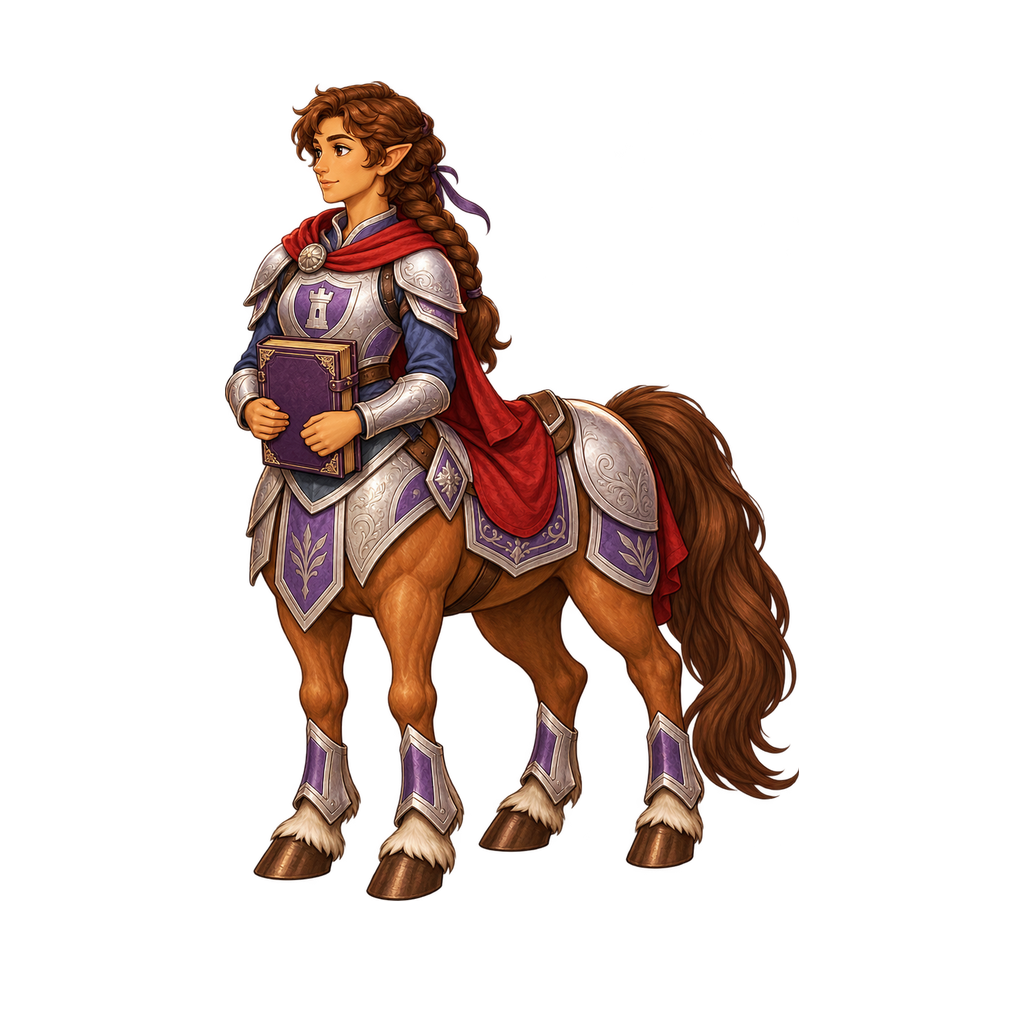
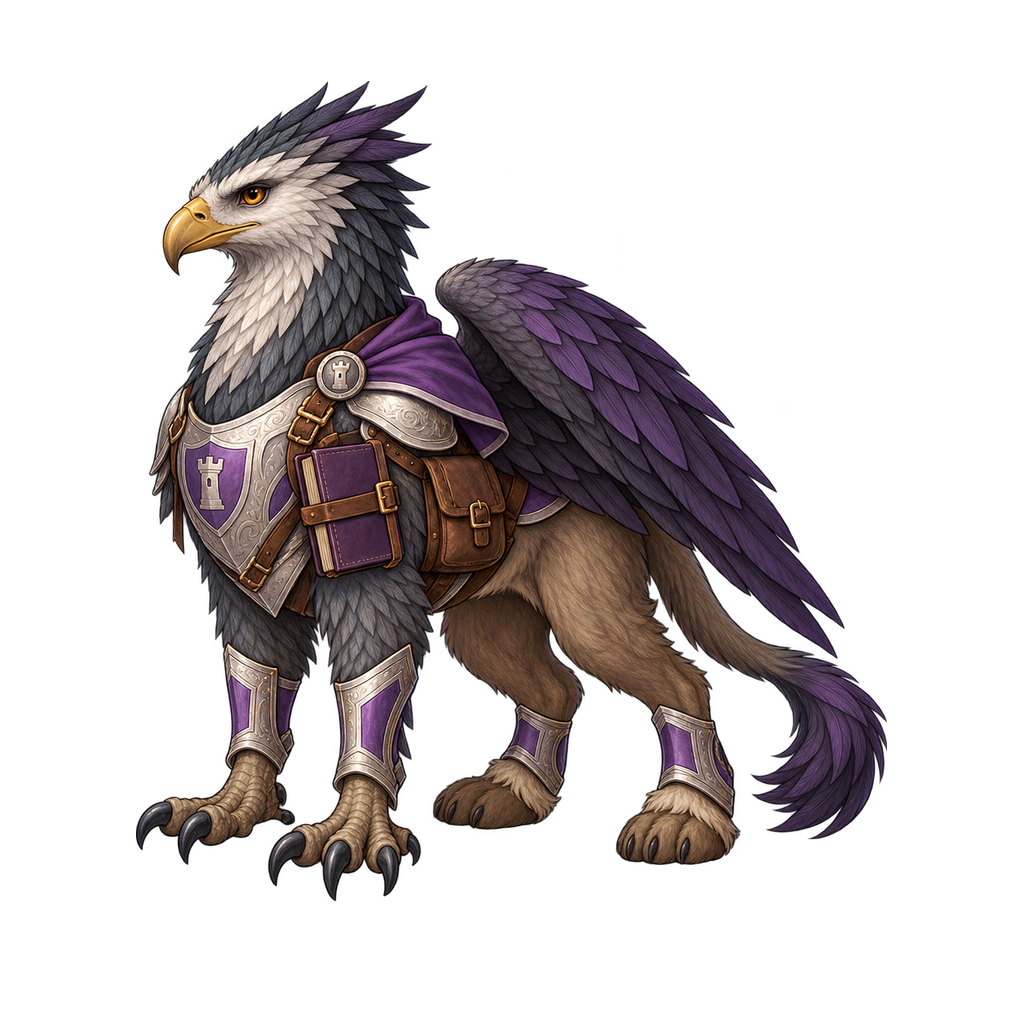
Make Holloway a griffin to match her old-flyer narration

diff --git a/docs/review/story-cast-orders/README.md b/docs/review/story-cast-orders/README.md
@@ -1,64 +1,40 @@
-# Individual order members (A3) review
-
-The finale capture shows Voss clearly on TV but off the right edge on the phone beside the much larger Seal-Keeper. This is a concrete renderer follow-up before phone approval. Brask’s corrected female face was checked and recaptured separately.
-
-![Figures](figures.png)
-
-Voss is a griffin, Brask a female faun, Holloway a centaur, and Mother Thrum a bigfoot: all are already represented in their order reference images. Voss has the direct beaked silhouette; Brask's ears and curls carry her three pencils; Holloway keeps the uniform and tidy ledger on a caravan-ready centaur; Mother Thrum's elder bigfoot body and bell charms suit a steady ford witch. Skywarden bases use actual species because the faction is absent from manifest entities, as in the approved Pellam pilot. Mother Thrum uses witch_order, which is a valid manifest entity. Group casts remain unchanged.
-
-Art verifier targeting the 4 new ids: **737 passed**, no failures. Content validator: **55 passed**. Semantic comparison: **28 cast replacements**, with only figure and required size fields changed. Before and after capture runs pass for all selected scenes.
-
-Captures use the real app at 1920×1080 TV and 390×844 phone. A temporary content
-copy exposes each original chapter as a single-chapter review campaign at index 1
-with its route prerequisite removed; scene text, cast, and biome are unchanged.
-Production campaigns and renderer code are unchanged. Phone edge/label cropping
-from the pilot renderer remains visible; captures are for visual review, not a claim
-that every composition is approved.
-
-## Captain Voss
-
-`captain_voss` · griffin · medium · 1 cast entries
-
-| TV before | TV after |
-|---|---|
-| ![Before](before-review-gemfall-08-scene_tether_call_voss-tv.png) | ![After](after-review-gemfall-08-scene_tether_call_voss-tv.png) |
-
-| PHONE before | PHONE after |
-|---|---|
-| ![Before](before-review-gemfall-08-scene_tether_call_voss-phone.png) | ![After](after-review-gemfall-08-scene_tether_call_voss-phone.png) |
-
-## Engineer Brask
-
-`brask` · faun · medium · 6 cast entries
-
-| TV before | TV after |
-|---|---|
-| ![Before](before-review-gemfall-05a-scene_engineers-tv.png) | ![After](after-review-gemfall-05a-scene_engineers-tv.png) |
-
-| PHONE before | PHONE after |
-|---|---|
-| ![Before](before-review-gemfall-05a-scene_engineers-phone.png) | ![After](after-review-gemfall-05a-scene_engineers-phone.png) |
-
-## Sergeant Holloway
-
-`holloway` · centaur · medium · 5 cast entries
-
-| TV before | TV after |
-|---|---|
-| ![Before](before-review-gemfall-04c-scene_warden_patrol-tv.png) | ![After](after-review-gemfall-04c-scene_warden_patrol-tv.png) |
-
-| PHONE before | PHONE after |
-|---|---|
-| ![Before](before-review-gemfall-04c-scene_warden_patrol-phone.png) | ![After](after-review-gemfall-04c-scene_warden_patrol-phone.png) |
-
-## Mother Thrum
-
-`mother_thrum` · witch_order · medium · 16 cast entries
-
-| TV before | TV after |
-|---|---|
-| ![Before](before-review-gemfall-03c-scene_witch_stall-tv.png) | ![After](after-review-gemfall-03c-scene_witch_stall-tv.png) |
-
-| PHONE before | PHONE after |
-|---|---|
-| ![Before](before-review-gemfall-03c-scene_witch_stall-phone.png) | ![After](after-review-gemfall-03c-scene_witch_stall-phone.png) |
+# Individual order members (A3) review
+
+The finale capture shows Voss clearly on TV but off the right edge on the phone beside the much larger Seal-Keeper. This is a concrete renderer follow-up before phone approval. Brask’s corrected female face was checked and recaptured separately.
+
+![Figures](figures.png)
+
+Voss is a griffin, Brask a female faun, Holloway a griffin, and Mother Thrum a bigfoot: all are already represented in their order reference images. Voss has the direct beaked silhouette; Brask's ears and curls carry her three pencils; Holloway keeps the uniform and tidy ledger on a griffin old flyer; Mother Thrum's elder bigfoot body and bell charms suit a steady ford witch. Skywarden bases use actual species because the faction is absent from manifest entities, as in the approved Pellam pilot. Mother Thrum uses witch_order, which is a valid manifest entity. Group casts remain unchanged.
+
+Art verifier targeting the 4 new ids: **737 passed**, no failures. Content validator: **55 passed**. Semantic comparison: **28 cast replacements**, with only figure and required size fields changed. Before and after capture runs pass for all selected scenes.
+
+Captures use the real app at 1920×1080 TV and 390×844 phone. A temporary content
+copy exposes each original chapter as a single-chapter review campaign at index 1
+with its route prerequisite removed; scene text, cast, and biome are unchanged.
+Production campaigns and renderer code are unchanged. Phone edge/label cropping
+from the pilot renderer remains visible; captures are for visual review, not a claim
+that every composition is approved.
+
+## Captain Voss
+
+`captain_voss` · griffin · medium · 1 cast entries
+
+
+
+## Engineer Brask
+
+`brask` · faun · medium · 6 cast entries
+
+
+
+## Sergeant Holloway
+
+`holloway` · griffin · medium · 5 cast entries
+
+
+
+## Mother Thrum
+
+`mother_thrum` · witch_order · medium · 16 cast entries
+
+

diff --git a/docs/campaigns/gemfall-illustrations.md b/docs/campaigns/gemfall-illustrations.md
@@ -399,13 +399,13 @@ Generated with the built-in image generation tool against the existing species/o
 references. Production PNGs are 1024×1024 RGBA, facing left, feet at y=900.
 The pilot alpha-bounds fit is used without repainting or recoloring.
 
-Voss is a griffin, Brask a female faun, Holloway a centaur, and Mother Thrum a bigfoot: all are already represented in their order reference images. Voss has the direct beaked silhouette; Brask's ears and curls carry her three pencils; Holloway keeps the uniform and tidy ledger on a caravan-ready centaur; Mother Thrum's elder bigfoot body and bell charms suit a steady ford witch. Skywarden bases use actual species because the faction is absent from manifest entities, as in the approved Pellam pilot. Mother Thrum uses witch_order, which is a valid manifest entity. Group casts remain unchanged.
+Voss is a griffin, Brask a female faun, Holloway a griffin, and Mother Thrum a bigfoot: all are already represented in their order reference images. Voss has the direct beaked silhouette; Brask's ears and curls carry her three pencils; Holloway keeps the uniform and tidy ledger on a griffin old flyer; Mother Thrum's elder bigfoot body and bell charms suit a steady ford witch. Skywarden bases use actual species because the faction is absent from manifest entities, as in the approved Pellam pilot. Mother Thrum uses witch_order, which is a valid manifest entity. Group casts remain unchanged.
 
 | id | basis | scale | references |
 |---|---|---|---|
 | captain_voss | griffin | medium | 1 |
 | brask | faun | medium | 6 |
-| holloway | centaur | medium | 5 |
+| holloway | griffin | medium | 5 |
 | mother_thrum | witch_order | medium | 16 |
 
 [Figure sheet and TV/phone captures](../review/story-cast-orders/README.md).
@@ -427,6 +427,10 @@ Final identity correction to Brask, using the generated figure:Targeted identity
 NEW single individual game cast figure Sergeant Holloway; the supplied reference is a GROUP and you must draw ONLY the person specified, not the group. Sergeant Holloway is ONE adult female CENTAUR Skywarden supply sergeant, chestnut horse body, braided brown hair, neat silver and violet uniform, calm meticulous expression. Holds ONE closed tidy purple leather LEDGER in two humanoid hands at waist, no text. Exactly FOUR equine legs/grounded hooves and exactly TWO humanoid arms, one horse tail. Light silver leg armor, no shield or weapon. Full figure facing LEFT. Match supplied warm hand-painted fantasy storybook style, readable at 120px. Complete figure three-quarter LEFT, nose/beak and gaze point image LEFT. Relaxed neutral pose, family friendly, controlled shading, upper-left light, tapered warm brown line. 1024x1024 RGBA actual transparent background, NO floor, ground shadow, text, border, or UI. Figure top around y80, feet around y900, clear 40px margins, all props inside canvas. Verify limb count.
 
 Reference: `assets/entities/skywardens/assembled.png`.
+
+Final Holloway correction for the narration's explicit old-flyer identity:
+
+Create NEW single individual game cast figure Sergeant Holloway, a FEMALE GRIFFIN Skywarden supply sergeant. Story calls her an old flyer, so she must have eagle head, golden hooked beak, slate-grey feather crest, lion quadruped body, two folded wings, one lion tail; NOT a centaur. Use ONLY griffin at left of supplied mixed-order reference for species and silver/violet uniform, not other people. Calm meticulous older face, neatly groomed crest, practical lighter silver armor with violet tower emblem and small violet shoulder cape. One CLOSED neat purple leather ledger rides visibly in a simple chest harness below her neck, tucked alongside a supply satchel; no writing. All FOUR limbs on ground: TWO eagle forelegs with talons and TWO lion hindlegs with paws. No humanoid arms, no extra legs, no sword or shield. Full character three-quarter LEFT, beak and gaze toward imageLEFT, neutral relaxed pose, readable120px. Crafted warm hand-painted storybook illustration, upper-left light, controlled shading. 1024x1024 RGBA true transparent background, no floor or shadow, no text/border, clear40px margins, feet near y900.
 
 ### Mother Thrum generation prompt
 
